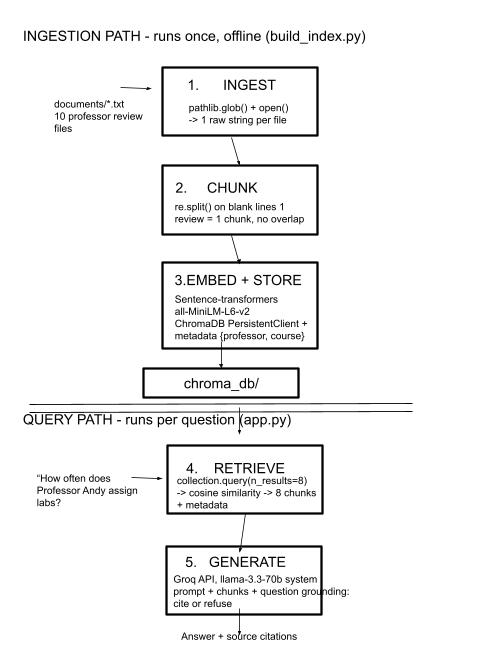
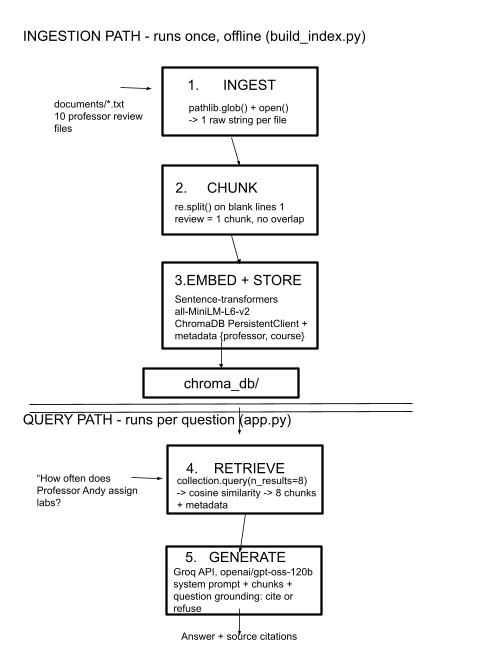
Final commit. Some parts of README could not be finished due to build issues.

Changed region(s): [[0.3507, 0.8232, 0.7307, 0.9451]]

diff --git a/retrieve.py b/retrieve.py
@@ -9,6 +9,7 @@ command line:
 import sys
 
 import chromadb
+from chromadb.errors import NotFoundError
 from sentence_transformers import SentenceTransformer
 
 from config import CHROMA_DIR, COLLECTION_NAME, EMBEDDING_MODEL, TOP_K
@@ -17,18 +18,23 @@ _model = None
 _collection = None
 
 
-def _load():
+def _load(reopen=False):
     """Open the model and collection once, then reuse them.
 
     Loading the model takes a couple of seconds, so a long-lived interface should
     not pay that cost on every question.
+
+    `reopen=True` discards the cached collection handle and fetches a fresh one.
+    A handle is bound to a specific collection UUID, so running build_index.py
+    (which drops and recreates the collection) invalidates any handle a running
+    app is holding. The model is never reloaded — it does not go stale.
     """
     global _model, _collection
 
     if _model is None:
         _model = SentenceTransformer(EMBEDDING_MODEL)
 
-    if _collection is None:
+    if _collection is None or reopen:
         if not CHROMA_DIR.exists():
             raise FileNotFoundError(
                 f"No index at {CHROMA_DIR.resolve()}. Run: python build_index.py"
@@ -67,11 +73,20 @@ def retrieve(question, top_k=TOP_K, course=None, min_quality=None):
     elif conditions:
         where = {"$and": conditions}
 
-    response = collection.query(
-        query_embeddings=model.encode([question]).tolist(),
-        n_results=top_k,
-        where=where,
-    )
+    query_embedding = model.encode([question]).tolist()
+
+    try:
+        response = collection.query(
+            query_embeddings=query_embedding, n_results=top_k, where=where
+        )
+    except NotFoundError:
+        # The index was rebuilt since this handle was opened. Reopen and retry
+        # once, so a running interface survives `python build_index.py` instead
+        # of failing every query until it is restarted.
+        _, collection = _load(reopen=True)
+        response = collection.query(
+            query_embeddings=query_embedding, n_results=top_k, where=where
+        )
 
     results = []
     for text, metadata, distance in zip(

diff --git a/README.md b/README.md
@@ -42,6 +42,31 @@ Verified with a clean-room install from the pinned `requirements.txt`:
 `pip check` reports no broken requirements, and `all-MiniLM-L6-v2` produces
 384-dimensional embeddings that store and query correctly through Chroma.
 
+**A second near-miss: the query interface.** Milestone 5 needs Gradio, and the
+stock `requirements.txt` suggested `gradio>=6.9.0`. That resolves to gradio
+6.27.0, which requires `huggingface_hub>=1.16` — a major-version jump from the
+installed 0.36.2. `sentence-transformers` 3.4.1 declares no upper bound on the
+hub, so pip would have performed that upgrade without complaint, moving a
+pinned, working package across an API boundary it was never tested against.
+Nothing would have failed at install time; it would have failed at embedding
+time, which is the same late-surfacing pattern as the NumPy 2 ABI problem above.
+
+`pip install --dry-run` exposed the planned upgrade before anything touched the
+environment. Constraining the hub rather than accepting the newest Gradio:
+
+    pip install "gradio" "huggingface_hub<1.0" "numpy<2"
+
+resolves to **gradio 6.17.3**, which leaves torch, numpy, transformers,
+sentence-transformers, and huggingface_hub untouched, adding only pandas 3.0.5
+and the FastAPI/Starlette server stack. Both constraints are pinned in
+`requirements.txt` so a fresh install reproduces the working set instead of
+re-triggering the conflict. Installing a bare `gradio` will undo this.
+
+**Re-verified after installing:** `pip check` reports no broken requirements;
+numpy 1.26.4, torch 2.2.2, and huggingface_hub 0.36.2 are unchanged;
+`retrieve.py` still returns scored matches from Chroma; and `python app.py`
+serves HTTP 200 on port 7860.
+
 **Portability.** These pins remain valid on Apple Silicon, since torch 2.2.2
 also ships arm64 wheels. The binding constraint for any machine is Python ≤ 3.12.
 
@@ -49,50 +74,39 @@ also ships arm64 wheels. The binding constraint for any machine is Python ≤ 3.
 
 ## Domain
 
-<!-- What topic or category of knowledge does your system cover?
-     Why is this knowledge valuable, and why is it hard to find through official channels?
-     Example: "Student reviews of CS professors at [university] — useful because official
-     course descriptions don't reflect teaching style, exam difficulty, or workload." -->
+The domain will be student reviews of Computer Science professors at Howard University. Many students hear about different professors that other students love or ones they hated, but they may not always know the specifics of what was endured in those professor's classes. For some professors with horrible reviews, their classes are unavoidable, and a student may be able to prepare in some way, even if it's just mentally. For other professors with great reviews, a student may be advised to choose that one over another. It is helpful to have this information quickly accessible while actively registering for classes, instead of having to comb through lots of reviews individually.
+
 
 ---
 
 ## Document Sources
 
-<!-- List every source you collected documents from.
-     Be specific: include URLs, subreddit names, forum thread titles, or file names.
-     Aim for variety — sources that together cover different subtopics or perspectives. -->
-
-| # | Source | Type | URL or file path |
-|---|--------|------|-----------------|
-| 1 | | | |
-| 2 | | | |
-| 3 | | | |
-| 4 | | | |
-| 5 | | | |
-| 6 | | | |
-| 7 | | | |
-| 8 | | | |
-| 9 | | | |
-| 10 | | | |
+| # | Source | Description | URL or location |
+|---|--------|-------------|-----------------|
+| 1 |RateMyProf|Reviews on Prof Jeremy Blackstone| /Users/selmaapara/CodePath/ai201-project1-unofficial-guide-starter/documents/Professor Jeremy Blackstone.txt |
+| 2 |LRateMyProf |LReviews on Prof Anietie Andy |/Users/selmaapara/CodePath/ai201-project1-unofficial-guide-starter/documents/Professor Anietie Andy.txt |
+| 3 |RateMyProf |Reviews on Prof. Linwei Niu |/Users/selmaapara/CodePath/ai201-project1-unofficial-guide-starter/documents/Professor Linwei Niu.txt |
+| 4 |RateMyProf |Reviews on Prof. Jiang Li |/Users/selmaapara/CodePath/ai201-project1-unofficial-guide-starter/documents/Professor Jiang Li.txt |
+| 5 |RateMyProf |Reviews on Prof. Andre Campbell |/Users/selmaapara/CodePath/ai201-project1-unofficial-guide-starter/documents/Professor Andre Campbell.txt |
+| 6 |RateMyProf |Reviews on Prof. Todd Shurn |/Users/selmaapara/CodePath/ai201-project1-unofficial-guide-starter/documents/Professor Todd Shurn.txt |
+| 7 |RateMyProf |Reviews on Prof. Legand Burge |/Users/selmaapara/CodePath/ai201-project1-unofficial-guide-starter/documents/Professor Legand Burge.txt |
+| 8 |RateMyProf |Reviews on Prof. Mikayla Orange| /Users/selmaapara/CodePath/ai201-project1-unofficial-guide-starter/documents/Professor Mikayla Orange|
+| 9 |RateMyProf |Reviews on Prof. Anamika Rupa|'/Users/selmaapara/CodePath/ai201-project1-unofficial-guide-starter/documents/Professor Anamika Rupa.txt' |
+| 10 |RateMyProf |Reviews on Prof. Ashish Adhikari |/Users/selmaapara/CodePath/ai201-project1-unofficial-guide-starter/documents/Professor Ashish Adhikari.txt |
 
 ---
 
 ## Chunking Strategy
 
-<!-- Describe your chunking approach with enough specificity that someone else could reproduce it.
-     Include:
-     - Chunk size (characters or tokens) and why that size fits your documents
-     - Overlap size and why (or why not) you used overlap
-     - Any preprocessing you did before chunking (e.g., stripping HTML, removing headers)
-     - What your final chunk count was across all documents -->
 
-**Chunk size:**
+Chunk size: Instead of by characters, the chunks will be split by empty space, making every review its own chunk.
 
-**Overlap:**
+Overlap: There will be no overlap.
 
-**Why these choices fit your documents:**
+Reasoning: Each review includes the Professor's name, the course the student had them for, and different specific information each student stated. Chunking by review allows for the requested information to always be attached to the specific Professor the information is being requested about. For example, if a query is about the homework load for Professor Blackstone, the user would not want a response that relates to a different professor that also has a review about. homework. 
 
-**Final chunk count:**
+
+Final chunk count: 63
 
 ---
 
@@ -118,23 +132,15 @@ She was new when I had her, and for the most part it seemed like she didn't know
 
 ## Embedding Model
 
-<!-- Name the embedding model you used and explain your choice.
-     Then answer: if you were deploying this system for real users and cost wasn't a constraint,
-     what tradeoffs would you weigh in choosing a different model?
-     Consider: context length limits, multilingual support, accuracy on domain-specific text,
-     latency, and local vs. API-hosted. -->
+Embedding model: The embedding model I am using is all-MiniLM-L6-v2. It has a 256-token window, and the maximum amount of tokens out of all of my chunks is 110, so my documents fit within its limitation. 
 
-**Model used:**
+Top-k: I am using 8, because of the nature of my chunks. My first test query asks about CSCI135 specifically, but also mentions a grade. There is a possibility that a chunk about a professor that teaches a different course will be retrieved, due to other parts of the chunk making it relate closely to those chunks that contain information about CSCI135. Having a higher top-k, 8, allows for the LLM to be sent more chunks, having a higher probability of generating a more-fit answer, instead of leaving out chunks that may have had the specific answer needed in them.
 
-**Production tradeoff reflection:**
-
+Production tradeoff reflection: If I were to deploy this project for real users, I would still not use a different embedding model, simply because of the size of the reviews. More token allowance would not be needed, because the reviews would never go over the current 256-token window of all-MiniLM-L6-v2, due to RateMyProfessor having a character limit on their website in the first place.
 ---
 
 ## Retrieval Test Results
 
-<!-- Run these 3 queries through your retrieval system and record the top returned chunks.
-     For at least 2 of the 3, explain why the returned chunks are relevant to the query.
-     Results must be text — not screenshots. -->
 
 **Query 1:**
 What professor should I take for CSCI135 if I want an A?
@@ -189,9 +195,28 @@ Relevance explanation: These retreivals are perfectly relevant. They reflect how
      Do not just say "I told it to use the documents" — show the actual instruction or explain
      the mechanism. -->
 
-**System prompt grounding instruction:**
+**System prompt grounding instruction: 
 
-**How source attribution is surfaced in the response:**
+Rules:
+1. Use ONLY the reviews provided below. Never add facts from your own knowledge \
+about these professors, their courses, or the university.
+2. Ignore reviews that do not address the question. The reviews are selected by \
+similarity search, so several are usually irrelevant. Do not force them in.
+3. If the reviews do not contain the answer, say so plainly: "The reviews I have \
+don't cover that." Then state what they do cover, if anything is close. Do not guess.
+4. Cite every claim with the professor's name and course in plain parentheses, \
+like (Blackstone, CSCI135). A claim without a citation is not allowed. Use no \
+other citation format — no bracketed markers, no review numbers, no footnotes, \
+no line references.
+5. Reviews often disagree about the same professor. When they do, report the \
+disagreement instead of averaging it away or picking a side — say how many \
+reviews take each position.
+6. One review is one student's opinion. Do not present a single review as a \
+general fact; write "one student said" rather than "students say".
+7. Never invent ratings, averages, or counts. Only use the Quality and Difficulty \
+numbers shown in the reviews.
+
+How source attribution is surfaced in the response: See rule 4.
 
 ---
 
@@ -223,9 +248,9 @@ Source attribution:
 
 **Out-of-scope query**
 
-Query:
+Query: Who won the world series?
 
-System response (refusal):
+System response (refusal): The reviews I have don’t cover that. They only discuss students’ opinions of Howard University computer‑science professors, their teaching styles, course difficulty, and grading.
 
 ---
 
@@ -325,3 +350,11 @@ System response (refusal):
 - *What I gave the AI:*
 - *What it produced:*
 - *What I changed or overrode:*
+
+
+Loom demo Video:
+
+<div style="position: relative; padding-bottom: 62.5%; height: 0;"><iframe src="https://www.loom.com/embed/f4f9bf7ef0214c01895cca078986fa50" frameborder="0" webkitallowfullscreen mozallowfullscreen allowfullscreen style="position: absolute; top: 0; left: 0; width: 100%; height: 100%;"></iframe></div>
+
+
+<div style="position: relative; padding-bottom: 62.5%; height: 0;"><iframe src="https://www.loom.com/embed/321aaafe53814a5bb598fe7e470400b9" frameborder="0" webkitallowfullscreen mozallowfullscreen allowfullscreen style="position: absolute; top: 0; left: 0; width: 100%; height: 100%;"></iframe></div>

diff --git a/planning.md b/planning.md
@@ -90,7 +90,7 @@ Production tradeoff reflection: If I were to deploy this project for real users,
 
 ## Architecture
 
-/documents/App of AI Project 1 Pipeline
+/documents/App of AI Project 1 Pipeline.jpg
 
 
 
@@ -111,6 +111,6 @@ Milestone 2 — Writing Spec: I asked Claude to explain certain concepts that I 
 
 Milestone 3 — Ingestion and chunking: I will ask Claude to review the format of my documents, and ask it to implement ingestion. I will then give Claude my Chunking Strategy and ask it to implement chunk_text(), ensuring it also saves the metadata I need saved.
 
-Milestone 4 — Embedding and retrieval: I will ask claude to implement
+Milestone 4 — Embedding and retrieval: I will ask claude to implement my embedding and retrieval ensuring to prioritize maintaining the important metadata, ensuring retreival errors don't affect generation too much.
 
-**Milestone 5 — Generation and interface:**
+Milestone 5 — Generation and interface: I will ask Claude to reccomend ways to ensure my system prompt results in the generation of grounded answers, as it relates to my particular domain. I will also ask it to generate the code for this section.
